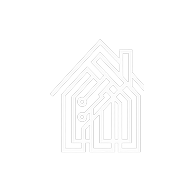
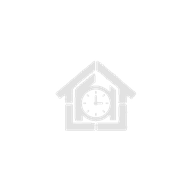
Add files via upload

diff --git a/app.js b/app.js
@@ -2960,6 +2960,9 @@ const CHANGELOG = {
   'v83': [
     'Neu: Splash-Screen beim Start zeigt jetzt ein eigenes Logo-Motiv.',
   ],
+  'v84': [
+    'Neu: App-Icon überarbeitet (Homescreen-Symbol).',
+  ],
 };
 
 const changelogModal = document.getElementById('changelogModal');
@@ -3005,7 +3008,7 @@ function checkChangelog(){
 }
 
 /* ===== Init ===== */
-const APP_VERSION = 'v83'; // wird bei jedem Update zusammen mit der Cache-Version in sw.js erhöht
+const APP_VERSION = 'v84'; // wird bei jedem Update zusammen mit der Cache-Version in sw.js erhöht
 document.getElementById('appVersionLabel').textContent = `Version ${APP_VERSION}`;
 let versionTapCount = 0;
 let versionTapTimer;

diff --git a/sw.js b/sw.js
@@ -1,4 +1,4 @@
-const CACHE_NAME = 'stundenzettel-v83';
+const CACHE_NAME = 'stundenzettel-v84';
 const ASSETS = [
   './index.html',
   './app.js',
